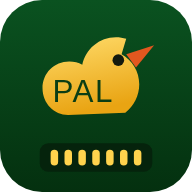
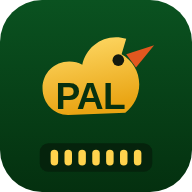
PAL set bolder and centred on the duck, fix the step list wrapping
Claude-Session: https://claude.ai/code/session_01RGjS2F7JBN1gUnrX9DMmQf

Changed region(s): [[0.2812, 0.4062, 0.6562, 0.5938]]

diff --git a/src/routes/StopDetail.jsx b/src/routes/StopDetail.jsx
@@ -200,9 +200,9 @@ export default function StopDetail() {
       <div className="eyebrow" style={{ margin: '22px 0 8px' }}>Do not forget to post</div>
       <div className="card" style={{ padding: 16 }}>
         <ol className="post-steps">
-          <li>Tap <b>Copy the caption</b> at the bottom of this screen.</li>
-          <li>Open Instagram or Facebook yourself.</li>
-          <li>Paste it with the photo you took.</li>
+          <li><span>Tap <b>Copy the caption</b> at the bottom of this screen.</span></li>
+          <li><span>Open Instagram or Facebook yourself.</span></li>
+          <li><span>Paste it with the photo you took.</span></li>
         </ol>
         <div className="eyebrow" style={{ margin: '16px 0 8px' }}>Your caption, already written</div>
         <pre style={{ margin: 0, whiteSpace: 'pre-wrap', fontFamily: 'var(--font-body)', fontSize: 14, lineHeight: 1.55, color: 'rgba(244,240,228,.92)' }}>{caption}</pre>

diff --git a/src/styles/app.css b/src/styles/app.css
@@ -340,6 +340,7 @@ img{display:block;max-width:100%}
 .post-steps{list-style:none;margin:0;padding:0;display:grid;gap:10px;counter-reset:ps}
 .post-steps li{display:grid;grid-template-columns:26px 1fr;gap:11px;align-items:start;
   font-size:14px;line-height:1.45;color:rgba(244,240,228,.92);counter-increment:ps}
+.post-steps li > span{padding-top:3px}
 .post-steps li::before{content:counter(ps);width:26px;height:26px;border-radius:50%;display:grid;place-items:center;
   font-family:var(--font-display);font-size:13px;color:var(--duck);
   background:rgba(255,198,39,.14);border:1px solid rgba(255,198,39,.35)}
